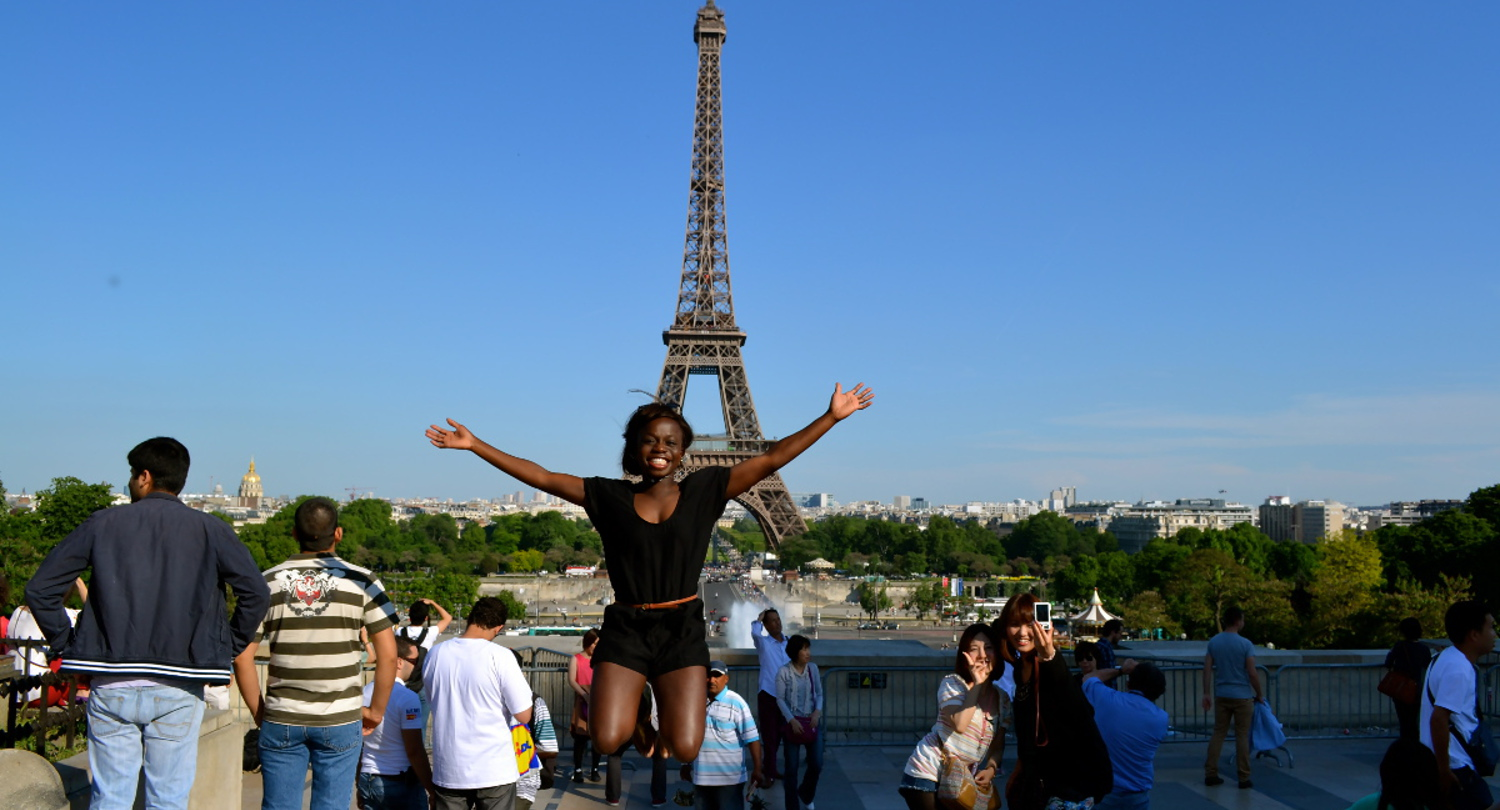
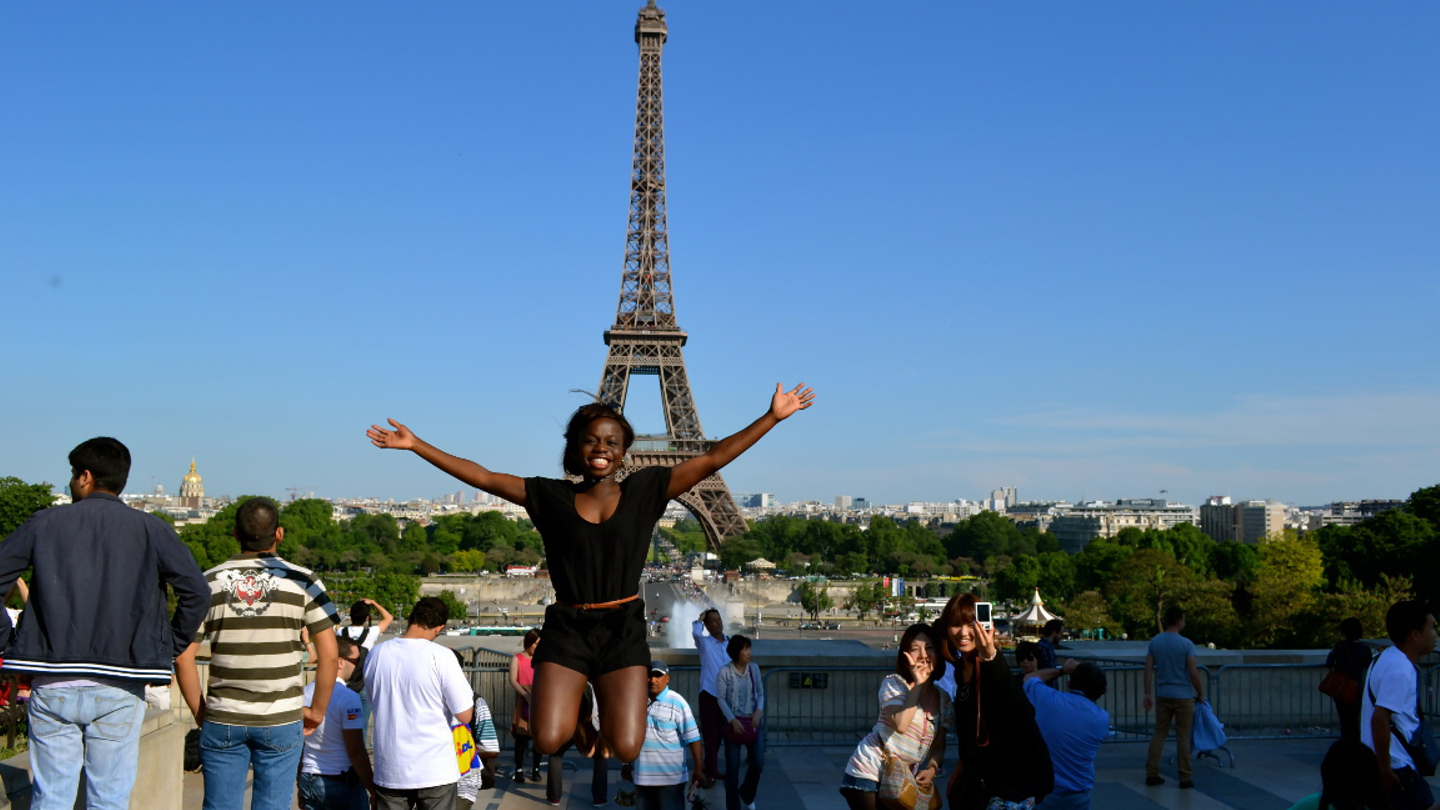
images

Changed region(s): [[0.0, 0.0, 0.9688, 1.0], [0.9375, 0.8025, 0.9688, 0.9259], [0.9062, 0.9568, 0.9375, 1.0]]

diff --git a/main.css b/main.css
@@ -31,3 +31,13 @@ body {
 
   background-color: blue;
 }
+
+.myCarousel {
+  max-height: 700px;
+  overflow: hidden;
+
+  .item img {
+    width: 100%;
+    height: auto;
+  }
+}

diff --git a/index.html b/index.html
@@ -104,8 +104,6 @@
 
     <p> x </p>
 
-
-
 	</div>
 
 	<div class="container">
